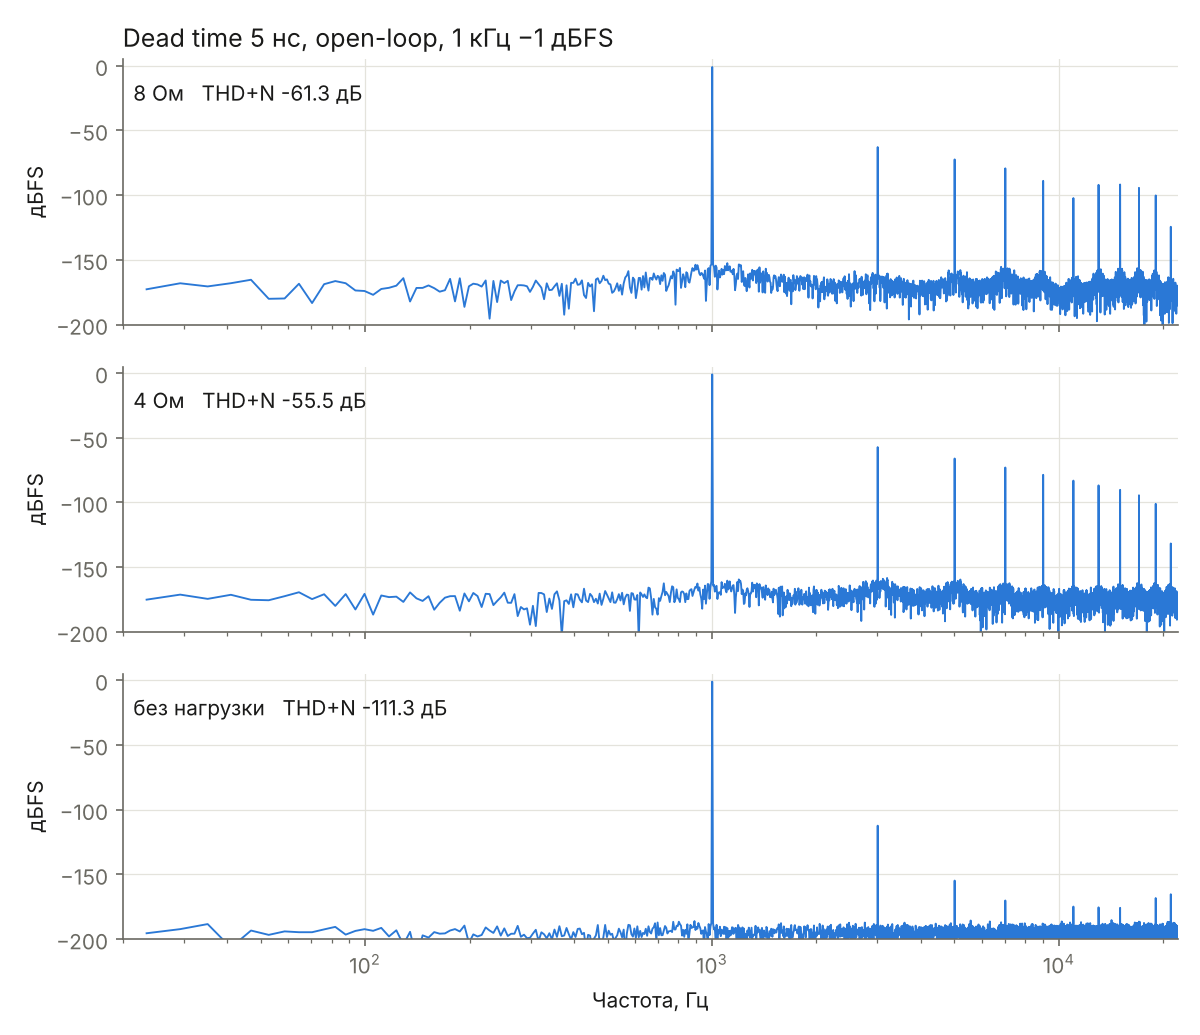
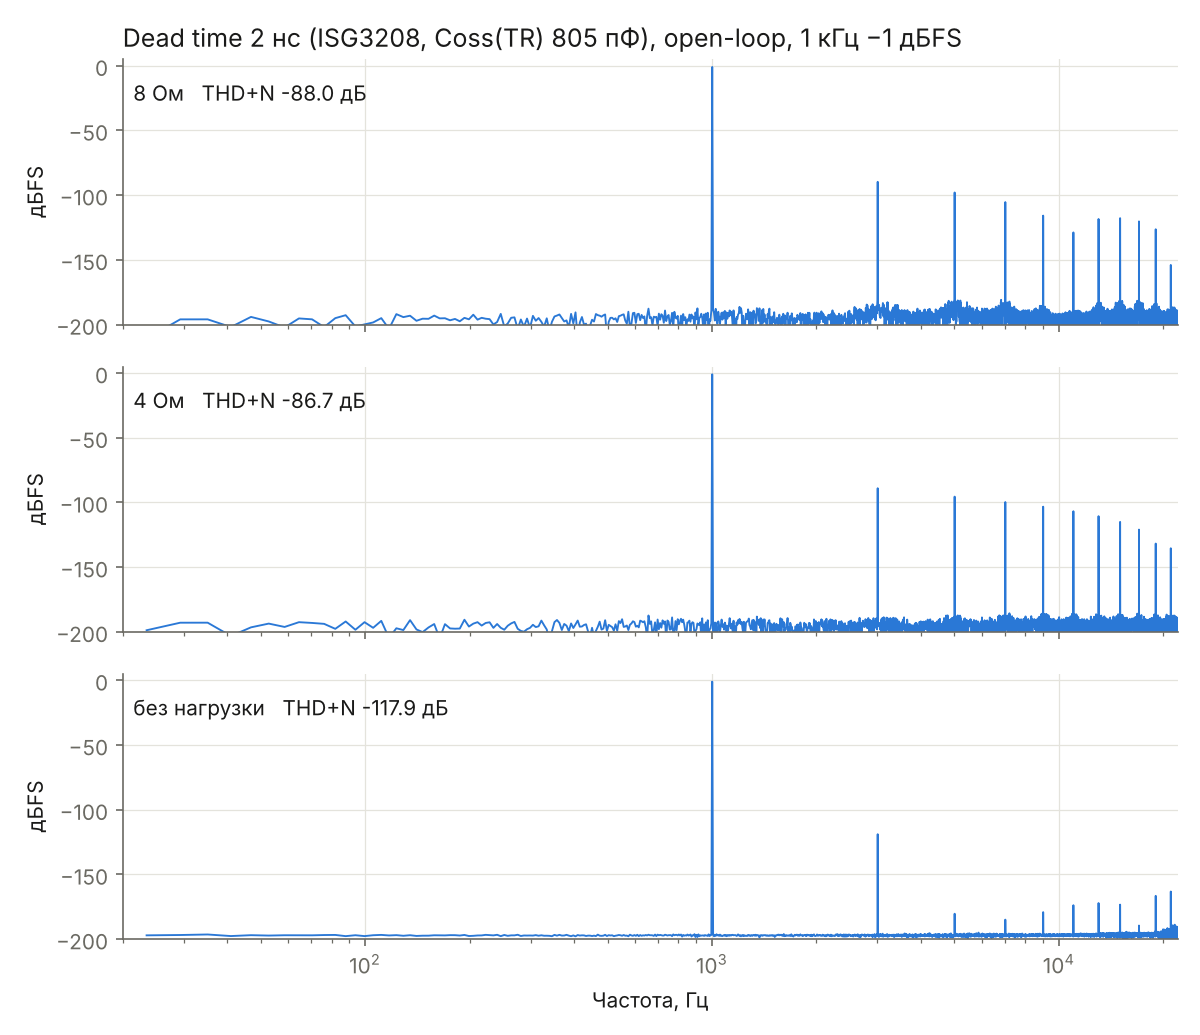
Use ISG3208 datasheet values: Coss(TR) 805 pF, dead time 1-5 ns sweep
Independent PWMH/PWML inputs with internal interlock allow ~1-2 tick dead
time from the FPGA; distortion scales roughly with dead time squared.
README: ISG3208 constraints (min pulse 10 ns, delay matching, thresholds).

Claude-Session: https://claude.ai/code/session_01LYe5pTQE5ZKpSB8AvEiNgy

diff --git a/model/run_openloop.py b/model/run_openloop.py
@@ -36,12 +36,13 @@ SCENARIOS = [
     ("Джиттер", "Джиттер 10 пс RMS", dict(jitter_rms=10e-12)),
     ("Джиттер", "Джиттер 50 пс RMS", dict(jitter_rms=50e-12)),
     ("Джиттер", "Джиттер 100 пс RMS", dict(jitter_rms=100e-12)),
+    ("Dead time", "1 нс, 8 Ом", dict(deadtime=1e-9)),
     ("Dead time", "2 нс, 8 Ом", dict(deadtime=2e-9)),
     ("Dead time", "5 нс, 8 Ом", dict(deadtime=5e-9)),
-    ("Dead time", "10 нс, 8 Ом", dict(deadtime=10e-9)),
+    ("Dead time", "2 нс, 4 Ом", dict(deadtime=2e-9, r_load=4.0)),
     ("Dead time", "5 нс, 4 Ом", dict(deadtime=5e-9, r_load=4.0)),
-    ("Dead time", "5 нс, без нагрузки", dict(deadtime=5e-9, r_load=np.inf)),
-    ("Dead time", "5 нс, 8 Ом, −20 дБFS", dict(deadtime=5e-9, level_dbfs=-20)),
+    ("Dead time", "2 нс, без нагрузки", dict(deadtime=2e-9, r_load=np.inf)),
+    ("Dead time", "2 нс, 8 Ом, −20 дБFS", dict(deadtime=2e-9, level_dbfs=-20)),
     ("Питание", "Пульсации шины 1 % / 100 Гц", dict(bus_ripple=0.01)),
     ("Питание", "То же + feedforward", dict(bus_ripple=0.01, feedforward=True)),
 ]
@@ -116,9 +117,9 @@ def main():
                  ["parity (шаг 1 тик, плавающий CM)", "even (шаг 2 тика, CM постоянный)"],
                  [S2, S1], "bd_split.png",
                  "Разбиение BD между плечами: идеальный тракт, 1 кГц −1 дБFS")
-    plot_small_multiples([res["5 нс, 8 Ом"], res["5 нс, 4 Ом"], res["5 нс, без нагрузки"]],
+    plot_small_multiples([res["2 нс, 8 Ом"], res["2 нс, 4 Ом"], res["2 нс, без нагрузки"]],
                          ["8 Ом", "4 Ом", "без нагрузки"], "deadtime_loads.png",
-                         "Dead time 5 нс, open-loop, 1 кГц −1 дБFS")
+                         "Dead time 2 нс (ISG3208, Coss(TR) 805 пФ), open-loop, 1 кГц −1 дБFS")
     plot_overlay([res["Джиттер 100 пс RMS"], res["Джиттер 10 пс RMS"]],
                  ["100 пс RMS", "10 пс RMS"], [S2, S1], "jitter.png",
                  "Джиттер фронтов, 1 кГц −1 дБFS")

diff --git a/model/classd_model.py b/model/classd_model.py
@@ -58,7 +58,8 @@ class Params:
     feedforward: bool = False         # scale modulation by measured bus
 
     deadtime: float = 0.0             # s
-    coss: float = 250e-12             # F, per device (energy-equivalent)
+    coss: float = 805e-12             # F, per FET, time-related Coss(TR)
+                                      # ISG3208: 805 pF @ 0-50 V (Qoss 40 nC)
     jitter_rms: float = 0.0           # s, white, per edge
 
     # output filter (per BTL half) + load

diff --git a/results/summary.md b/results/summary.md
@@ -1,6 +1,6 @@
 # Open-loop: результаты модели
 
-Несущая 768 кГц (BD), обновление 1.536 МГц, шаг фронта 1.272 нс (512 тиков на полупериод), NTF 5-го порядка, OBG 3.0. Шина 50 В, L 4.7 мкГн, C на землю 470 нФ, C дифф. 470 нФ, Zobel 4.7 Ом + 470 нФ, Coss 250 пФ. Сигнал −1 дБFS, 1 кГц, если не указано иное. Полоса 20 Гц–20 кГц.
+Несущая 768 кГц (BD), обновление 1.536 МГц, шаг фронта 1.272 нс (512 тиков на полупериод), NTF 5-го порядка, OBG 3.0. Шина 50 В, L 4.7 мкГн, C на землю 470 нФ, C дифф. 470 нФ, Zobel 4.7 Ом + 470 нФ, Coss 805 пФ. Сигнал −1 дБFS, 1 кГц, если не указано иное. Полоса 20 Гц–20 кГц.
 
 | Группа | Сценарий | THD+N, дБ | THD, дБ | H3, дБ |
 |---|---|---:|---:|---:|
@@ -11,11 +11,12 @@
 | Джиттер | Джиттер 10 пс RMS | -104.9 | -117.8 | -118.0 |
 | Джиттер | Джиттер 50 пс RMS | -91.1 | -114.4 | -117.8 |
 | Джиттер | Джиттер 100 пс RMS | -85.1 | -110.2 | -117.3 |
-| Dead time | 2 нс, 8 Ом | -77.7 | -77.7 | -78.4 |
-| Dead time | 5 нс, 8 Ом | -61.3 | -61.3 | -61.8 |
-| Dead time | 10 нс, 8 Ом | -47.4 | -47.4 | -48.2 |
-| Dead time | 5 нс, 4 Ом | -55.5 | -55.5 | -56.2 |
-| Dead time | 5 нс, без нагрузки | -111.3 | -111.3 | -111.3 |
-| Dead time | 5 нс, 8 Ом, −20 дБFS | -142.4 | -148.9 | -149.1 |
+| Dead time | 1 нс, 8 Ом | -100.8 | -100.8 | -101.7 |
+| Dead time | 2 нс, 8 Ом | -88.0 | -88.0 | -88.7 |
+| Dead time | 5 нс, 8 Ом | -71.9 | -71.9 | -72.6 |
+| Dead time | 2 нс, 4 Ом | -86.7 | -86.7 | -88.0 |
+| Dead time | 5 нс, 4 Ом | -70.5 | -70.6 | -71.9 |
+| Dead time | 2 нс, без нагрузки | -117.9 | -117.9 | -117.9 |
+| Dead time | 2 нс, 8 Ом, −20 дБFS | -142.9 | -153.3 | -154.5 |
 | Питание | Пульсации шины 1 % / 100 Гц | -43.0 | -117.2 | -117.8 |
 | Питание | То же + feedforward | -118.0 | -118.0 | -118.0 |
